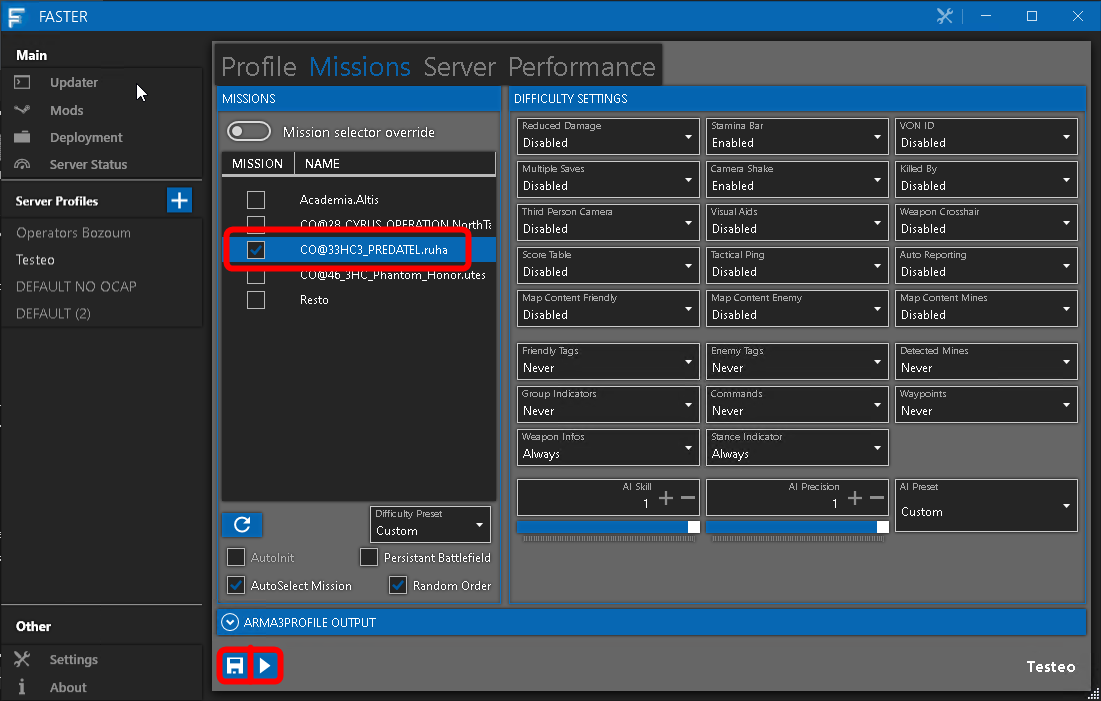
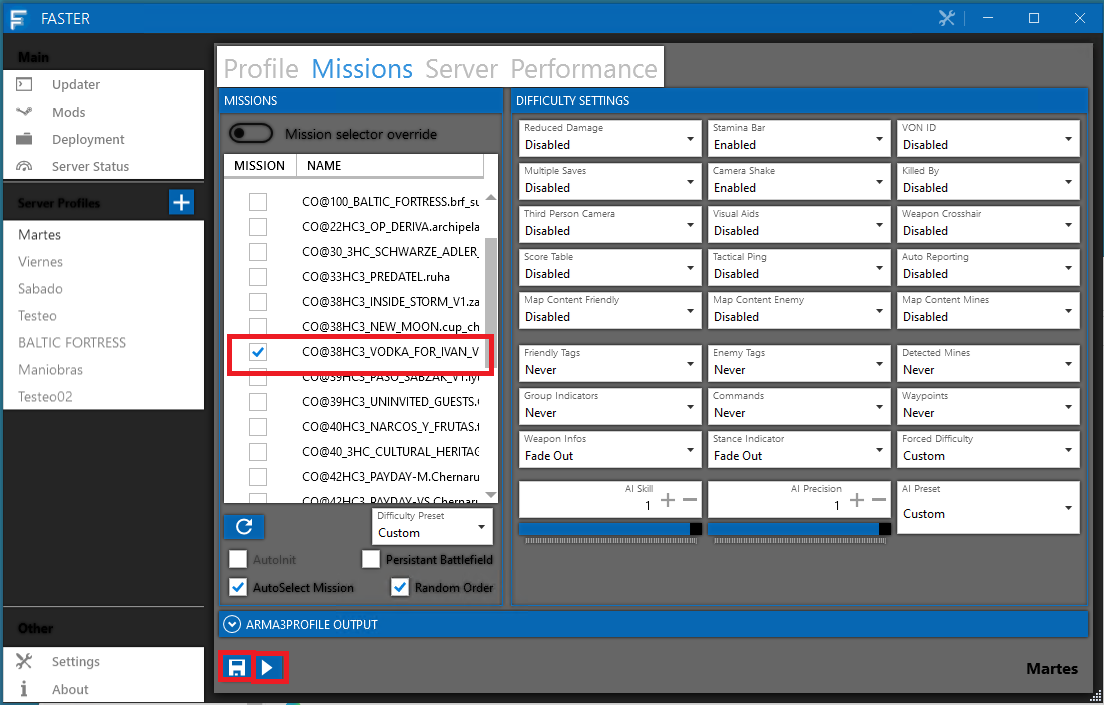
añadidos nuevas paginas

diff --git a/docs/partidas.md b/docs/partidas.md
@@ -1,0 +1,104 @@
+# Gestion de partidas
+
+Vamos a explicar el paso a paso para arrancar una partida
+
+## Configuracion previa
+
+Para que todo fluya algo mejor y podamos prevenir errores, cuando creemos los post del foro, deberiamos de añadir el modset y configurar el faster para que todo este ya configurado el dia de la partida, pero si por alguna casual esto no se hubiera hecho, procederemos a gestionarlo de la siguiente forma:
+
+### Configuracion de modset
+
+Como parte del proceso de arrancar una partida, hay que hacer un modset para que los miembros/reclutas puedan acceder a la partida con los mismos mods.
+
+Nos vamos al repositorio SQA por ejemplo y clicamos el botón de modificar eventos. 
+
+<figure markdown>
+  ![Evento](assets/A3Sync_evento.png)
+</figure>
+
+Seleccionamos el evento, por ejemplo martes, y seleccionamos **A MANO** todos los mods de la partida, siempre fijandonos en el HTML que nos facilito el editor, a continuación subimos y listo.
+
+<figure markdown>
+![Crear evento](assets/A3sync_crear_evento.png)
+</figure>
+
+### Configuracion FASTER
+
+Para tener un poco mas de informacion sobre este programa:
+
+Faster es un programa para arrancar servidores de ARMA 3 con una configuración sencilla además de aportar virtualización (crear instancias aparte) cuando se arranca el server. Esta documentación no tiene como objetivo conocer todas las posibilidades de FASTER. Para ello referenciar el manual del servidor dedicado de [Arma 3](https://community.bistudio.com/wiki/Arma_3:_Dedicated_Server).
+
+La primera vez que arrancamos FASTER nos aparecerá esta ventana. De aquí lo único que nos interesa es el cuadro de PERFILES.
+
+1. Martes / Viernes: Operaciones de martes y viernes que jugaremos durante la semana
+2. Testeo: Su propio nombre lo indica, un perfil para el testeo de misiones.
+3. Maniobras: Este perfil esta destinado para "partidas" que tienen mas un enfoque de formacion y practica.
+4. Baltic Fortress (o similares): Son partidas con persistencia, en las cuales nuestro perfil debe continuar durante toda la persistencia de la partida. Explicaremos mas en [persistencia](persistencia_faster.md)
+
+<figure markdown>
+  ![Faster main window](assets/faster_main_window.png)
+</figure>
+
+Seleccionaremos el perfil que queremos cargar y procedemos a configurarlo.
+
+#### Configuracion del perfil
+
+Una vez elegido el perfil que vamos a configurar, seguiremos los siguientes pasos:
+
+<figure markdown>
+  ![Faster mods](assets/faster_mods.png)
+</figure>
+
+1. Primero haremos click derecho en "SERVER ONLY" y le daremos a SELECT NONE, haremos lo mismo con "SERVER + CLIENT" y "HC", esto es para borrar todos los mods anteriores.
+2. Iremos a DLCs y comprobaremos que no hay ninguno marcado. Si la partida que vamos a jugar es de Vietnam seleccionaríamos Prairie Fire.
+3. Le damos a "Load from file" y elegimos el fichero .HTML de la misión, los editores deben proporcionarnos un archivo .HTML con todos los mods de la partida (son los mismos que hemos cargado en el modset). Esto nos clickara los mods dentro de "SERVER + CLIENT".
+4. CLICK DERECHO a "HC" y **COPY FROM CLIENT**. De esta forma copiaremos todos los mods que teniamos en "SERVER + CLIENT" y los tendremos tambien en "HC".
+
+Nos faltan los mods de "SERVER ONLY", que son los siguientes:
+
+* @SQA (SERVER ONLY, SERVER + CLIENT, HC TICKADOS)
+* LAMBS y sus compats, dependiendo de la misión será RHS o CUP, preguntar al editor si se le ha olvidado. (SERVER ONLY, SERVER + CLIENT, HC TICKADOS)
+* OCAP si el editor lo desea. En partidas de prueba  o testeo no se usa OCAP, al igual que en partidas con persistencia para no desvelar futuras maniobras de la partida (SOLO SERVER ONLY).
+
+
+#### Configuracion de mision
+
+Por último debemos elegir la misión. Nos vamos a la pestala de "Missions", y ticamos la misión que vamos a jugar (en este caso VODKA FOR IVAN). Este listado de partidas son los PBOs que encontramos dentro de MPMisions
+
+Cómo penúltimo paso, **ES MUY IMPORTANTE DARLE A GUARDAR PREVIAMENTE A LANZAR EL SERVIDOR**, lanzamos y esperamos que arma arranque el servidor.
+
+<figure markdown>
+  ![Faster mods](assets/faster_mission.png)
+</figure>
+
+#### Arranque del server
+
+Para finalizar, debemos estar atentos al arranque del server y tener el juego preparado. El servidor por norma general si pasa bastante rato entre que está arrancado y un usuario entra, la partida carga a mapa directamente. Tenemos que ser rápidos y entrar de admin.
+
+!!! warning "¡PELIGRO!"
+
+    No sueltes el admin hasta que estés dentro de la partida en caso de que el editor te lo pida, o le promocionas como zeus.
+
+
+### Parar servicios
+
+Para que no tengamos problemas de *LAG* durante la partida debemos de parar ciertos servicios, de esta forma prevendremos que nos ocasione algunos problemas. (Tienes mas informacion de los servicios [aqui](servicios.md))
+
+<figure markdown>
+  ![Faster mods](assets/batServices.png)
+</figure>
+
+5 minutos antes del inicio de la partida (19:55 o 22:25) segun si es martes o viernes, pararemos los servicios de ACADEMIA, y el REPO. En principio con esto daremos por iniciado la partida.
+
+### Terminar una partida
+
+Para que el OCAP se guarde hace falta que salga "Misión Completada" o "Misión Fallida". Ejecutad el script en **GLOBAL EXEC**.
+
+#### Mision completada
+
+
+```["END1",true,true] call BIS_fnc_endMission;```
+
+#### Misión fallida
+
+```["LOSER",false, true] call BIS_fnc_endMission;```

diff --git a/docs/foro.md b/docs/foro.md
@@ -1,0 +1,92 @@
+# Publicacion de partidas en el foro
+
+En este apartado se recoge buenas prácticas para el posteo de partidas
+
+## Instrucciones y practicas
+
+Desde el equipo de GIA, a lo largo de la semana, iran creando en el apartado correspondiente del foro [INDIA - Instruccion](https://foro.squadalpha.es/viewforum.php?f=46), todo lo que se hara durante la semana siguiente que realizaremos dentro de la escuadra.
+
+De esta parte unicamente tendremos que informar del dia y el enlace dentro de ```= ALPHA FORCE NETWORK =```
+
+#### Ejemplo de texto para ALPHA FORCE NETWORK de una semana normal
+```
+Lunes:
+Curso Instrucción de Buceador de Combate
+https://foro.squadalpha.es/viewtopic.php?t=9296
+
+Martes:
+TUTORÍAS
+https://foro.squadalpha.es/viewtopic.php?t=9304
+VODKA FOR IVAN
+https://foro.squadalpha.es/viewtopic.php?t=9308
+
+Miércoles:
+CURSO DE EDICIÓN
+https://foro.squadalpha.es/viewtopic.php?t=9303
+
+Jueves:
+Curso Instrucción de Artillería y Morteros
+https://foro.squadalpha.es/viewtopic.php?t=9302
+
+Viernes:
+BALTIC FORTRESS
+https://foro.squadalpha.es/viewtopic.php?t=9307
+
+Sábado:
+Sábado de Prácticas
+https://foro.squadalpha.es/viewtopic.php?t=9305
+```
+
+## Operativos de la semana
+
+Los operativos de la semana se publican Sabado (despues de partida) o el domingo a media mañana; estos operativos estan marcados en el [Calendario de partidas](https://foro.squadalpha.es/viewtopic.php?t=5390) que nos ofrecen desde el grupo de GET. Una vez que veamos el nombre del operativo en el calendario de partidas, accederemos a [Listado de misiones oficiales](https://foro.squadalpha.es/viewforum.php?f=87) y buscaremos la partida que toca esta semana.
+
+Una vez encontradas las partidas tenemos 2 metodos de publicacion:
+
+### Metodo 1 (codigo al final de publicacion)
+
+<figure markdown>
+  ![PostCon](assets/post_con.png)
+  <figcaption>Post con codigo</figcaption>
+</figure>
+
+Para estas partidas es facil, al lado de "CÓDIGO" le damos a seleccionar todo y copiamos todo el texto que nos selecciona. Este codigo deberia ser la misma publicacion que estamos viendo como base.
+
+Unicamente deberemos de pegar todo el texto en una nueva publicacion del foro, en la parte que indicamos arriba de [INDIA - Instruccion](https://foro.squadalpha.es/viewforum.php?f=46) y continuar con el paso comun
+
+### Metodo 2 (sin codigo al final de publicacion)
+
+<figure markdown>
+  ![PostSin](assets/post_sin.png)
+  <figcaption>Post sin codigo</figcaption>
+</figure>
+
+Para estas partidas tenemos que enfocarlo de otra forma. Para coger el codigo base de la partida, debemos como responder al post principal que creo el editor y copiar todo el codigo que tiene, luego cancelamos la respuesta.
+
+Unicamente deberemos de pegar todo el texto en una nueva publicacion del foro, en la parte que indicamos arriba de [INDIA - Instruccion](https://foro.squadalpha.es/viewforum.php?f=46) y continuar con el paso comun
+
+### Comun para ambos metodos
+
+Una vez tengamos el codigo copiado en el post de las partidas, deberemos de cambiar el titulo a la zona de "Asunto" cambiando los XX/XX de la fecha y poniendo la correspondiente. Esto mismo haremos con la fecha del titulo de la publicacion.
+
+Por otro lado, bajaremos a la zona de "Escuadras" de la publicacion y revisaremos que no haya slots extras para ese dia. En el caso de que estas unidades esten en el post, procederemos a eliminarlas de aqui para que nadie pueda cogerlas.
+
+## Slots extras durante la semana
+
+Si durante la semana algunas de las partidas llegara a llenarse (TODOS los slots han sido codigos). Añadiremos unos slots extras añadiendo estas lineas al final de las escuadras disponibles:
+
+```
+[color=#80BFFF][b]RESERVAS[/b][/color] 
+[rol]RESERVA (R)-[b][color=#80BFFF][slot][/slot][/color][/b][/rol]
+[rol]RESERVA (R)-[b][color=#80BFFF][slot][/slot][/color][/b][/rol]
+[rol]RESERVA (R)-[b][color=#80BFFF][slot][/slot][/color][/b][/rol]
+[rol]RESERVA (R)-[b][color=#80BFFF][slot][/slot][/color][/b][/rol]
+[rol]RESERVA (R)-[b][color=#80BFFF][slot][/slot][/color][/b][/rol]
+[rol]RESERVA (R)-[b][color=#80BFFF][slot][/slot][/color][/b][/rol]
+[rol]RESERVA (R)-[b][color=#80BFFF][slot][/slot][/color][/b][/rol]
+[rol]RESERVA (R)-[b][color=#80BFFF][slot][/slot][/color][/b][/rol]
+```
+
+Si al final hubiera suficiente gente disponible para entrar, podriamos añadir la escuadra extra que tuviera la partida. Tambien podria darse el caso que desde GET nos habilitaran una escuadra (lo suele hacer el editor) y tuvieramos que añadirla sin que estuviera publicada en el post base.
+
+Tenemos que tener en cuenta que, los slots deben de ocuparse en orden en el que se hayan ido llenando las plazas de reserva. NADIE puede coger plaza sin tener en cuenta el orden de reserva; esta parte sera revisada por PLANA y GOP, para que se respete el orden.

diff --git a/docs/servicios.md b/docs/servicios.md
@@ -1,13 +1,33 @@
 # Servicios (Academia, OCAP, etc)
 
-La academia, el ts, el ocap y otras cosas más el arranque y parada se regulan mediante servicios. El programa FireDaemon nos permitirá gestionarlos.
+La academia, el ts, el ocap y otras cosas más el arranque y parada se regulan mediante servicios de windows.
 
 <figure markdown>
-  ![Firedaemon](assets/firedaemon.png)
-  <figcaption>Pantalla principal de FireDaemon</figcaption>
+  ![WindowsServices](assets/windows_services.png)
+  <figcaption>Pantalla principal de Servicios de Windows</figcaption>
 </figure>
 
-Desde aquí de forma intuitiva podemos parar la academia, lanzarla, etc.
+Desde aquí de forma intuitiva podemos parar todos los servicios web que tenemos cargados desde Caddy. Entre ellos tenemos Academia, Misiones (web para subir partidas directamente a la carpeta de Mpmissions), OCAP, graficas o el propio servicio web.
+
+### Archivos .bat para la gestion de servicios
+
+Para facilitar la parada y arranque de los servicios principales que debemos de gestionar en una partida, se han facilitado en el escritorio, los accesos directos a una serie de archivos .BAT que arrancan o parar dichos servicios.
+
+<figure markdown>
+  ![batServices](assets/batServices.png)
+  <figcaption>Acceso rapido a bat de servicios</figcaption>
+</figure>
+
+```
+#Ejemplo de codigo de arranque de 0WEB
+
+@echo off
+echo Levantando repositorio...
+net start 0WEB
+echo Repositorio levantado
+echo Presione una tecla para cerrar la ventana...
+pause >nul
+```
 
 # Montar un servicio (créditos: Napster)
 
@@ -67,3 +87,10 @@ pasa a ser
 
 7. Una vez más, testea lanzando el servicio para ver que te funciona todo.
 8. Si ves que funciona todo bien, puedes borrar el perfil del FASTER.
+
+@echo off
+echo Levantando repositorio...
+net start 0WEB
+echo Repositorio levantado
+echo Presione una tecla para cerrar la ventana...
+pause >nul

diff --git a/docs/index.md b/docs/index.md
@@ -1,6 +1,6 @@
 # Acceso al servidor
 
-A fecha del 17/01/2024 el servidor es Windows, para conectarnos se usa el protocolo RDP (remote desktop protocol). Windows ya tiene un cliente para este protocolo, conexión a escritorio remoto.
+Para conectarnos al servidor, utilizaremos "Remote desktop" que tendra nuestro propio ordenador; actualmente a fecha 19/06/2024 el servidor es Windows.
 
 <figure markdown>
   ![Remote Desktop Client](assets/rdp_window.png)
